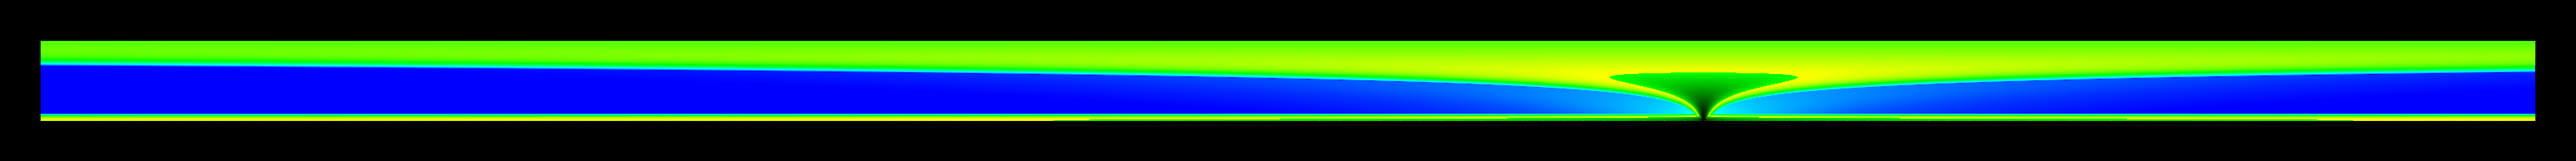
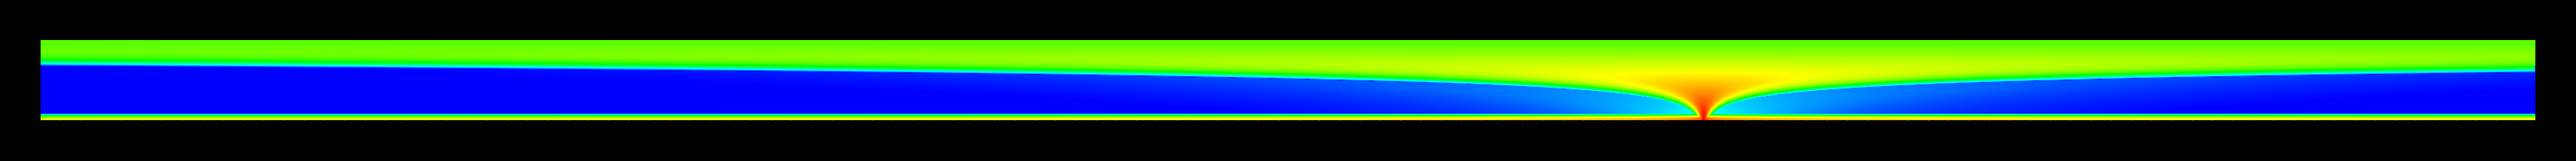
I got the colours right now, next up getting the plotting to be correct

Changed region(s): [[0.0312, 0.4523, 0.9675, 0.7538], [0.0312, 0.2412, 0.9675, 0.2714]]

diff --git a/Morlets/Plot.cc b/Morlets/Plot.cc
@@ -23,18 +23,16 @@ void Plot(double * data,int num_x,int num_y)
 
 	pngwriter png(num_x+ 2*PLOT_OX,lines_size*num_y+2*PLOT_OY,0,"test.png");
 
-	for ( i = 0; i < num_x; ++i)
+	for ( i = 1; i <= num_x; ++i)
 	{
-		for ( j = 0; j < num_y; ++j)
+		for ( j = 1; j <= num_y; ++j)
 		{
 			for ( k = 0; k < lines_size; ++k)
 			{
-				double value = (double) (data[i+j*num_x]);
+				double value = (double) (data[i + j*num_x]);
+				COLOUR c = GetColour(value, minimum, maximum);
 				
-				png.plot(PLOT_OX + i, PLOT_OY + j*lines_size + k, 
-					GetR(value, minimum, range), 
-					GetG(value, minimum, range),
-					GetB(value, minimum, range));
+				png.plot(PLOT_OX + i , PLOT_OY + j*lines_size + k, c.r, c.g, c.b);
 			}
 		}
 		// ADD A TIME MARKER
@@ -48,68 +46,32 @@ void Plot(double * data,int num_x,int num_y)
 	png.close();
 }
 
-void CalculateLog(double * array, int size)
+COLOUR GetColour(double v,double vmin,double vmax)
 {
-	double val;
-	for (int i = 0; i < size; ++i)
-	{
-		//If the number is greater than machine precision of zero
-		if (array[i] > 2.220446049250313e-16)
-		{
-			val = log10(array[i]);
-			array[i] = val;
-		}
-		//The number is the logarithm of the lowest possible number.
-		else
-		{
-			array[i] = log10(2.220446049250313e-16);
-		}
-			
+   COLOUR c = {1.0,1.0,1.0}; // white
+   double dv;
 
-	}
-}
+   if (v < vmin)
+      v = vmin;
+   if (v > vmax)
+      v = vmax;
+   dv = vmax - vmin;
 
-double GetR(double value, double minimum, double range)
-{
-	double red;
+   if (v < (vmin + 0.25 * dv)) {
+      c.r = 0;
+      c.g = 4 * (v - vmin) / dv;
+   } else if (v < (vmin + 0.5 * dv)) {
+      c.r = 0;
+      c.b = 1 + 4 * (vmin + 0.25 * dv - v) / dv;
+   } else if (v < (vmin + 0.75 * dv)) {
+      c.r = 4 * (v - vmin - 0.5 * dv) / dv;
+      c.b = 0;
+   } else {
+      c.g = 1 + 4 * (vmin + 0.75 * dv - v) / dv;
+      c.b = 0;
+   }
 
-	if (value < (minimum + 0.75 * range))
-	{
-		red = 4 * (value - minimum - 0.5 * range) / range;	
-	}
-	else
-	{
-		red = 0.0;
-	}
-	return (red);
-}
-
-double GetG(double value, double minimum, double range)
-{
-	double green; 
-	if (value < (minimum + 0.25 * range)) 
-	{
-		green = 4 * (value - minimum) / range;
-	}
-	else
-	{
-		green = 1 + 4 * (minimum + 0.75 * range - value) / range;
-	}
-	return(green);
-}
-
-double GetB(double value, double minimum, double range)
-{
-	double blue;
-	if (value < (minimum + 0.5 * range))	
-	{
-		blue = 1 + 4 * (minimum + 0.25 * range - value) / range;
-	}
-	else
-	{
-		blue = 0.0;
-	}
-	return(blue);
+   return(c);
 }
 
 double Max(double * array, int size)
@@ -144,4 +106,25 @@ double Min(double* array, int size)
 	}
 	printf("Min: Array[%d] = %.17f\n", array_index, array[array_index]);
 	return(min);
+}
+
+void CalculateLog(double * array, int size)
+{
+	double val;
+	for (int i = 0; i < size; ++i)
+	{
+		//If the number is greater than machine precision of zero
+		if (array[i] > 2.220446049250313e-16)
+		{
+			val = log10(array[i]);
+			array[i] = val;
+		}
+		//The number is the logarithm of the lowest possible number.
+		else
+		{
+			array[i] = log10(2.220446049250313e-16);
+		}
+			
+
+	}
 }

diff --git a/include/wavelet.h b/include/wavelet.h
@@ -61,10 +61,15 @@ void Plot(double * data,int num_x,int num_y);
 double Max(double * array, int size);
 double Min(double * array, int size);
 void CalculateLog(double * array, int size);
-double GetR(double value, double minimum, double range);
-double GetG(double value, double minimum, double range);
-double GetB(double value, double minimum, double range);
+// double GetR(double value, double minimum, double range);
+// double GetG(double value, double minimum, double range);
+// double GetB(double value, double minimum, double range);
 
+ typedef struct {
+      double r,g,b;
+   } COLOUR;
+
+COLOUR GetColour(double v,double vmin,double vmax);
 
 int WriteTestCases(double *data, int length, const char* filename);
 

diff --git a/Morlets/main.cc b/Morlets/main.cc
@@ -28,7 +28,7 @@ int main(void)
     //populate the data array
     TestCases(data, 1);
     // n = ReadFile(data, "sst_nino3.dat");
-    
+
     Wavelet(data, period, scales, 
         FS, n, J,
         wavelet_result);
